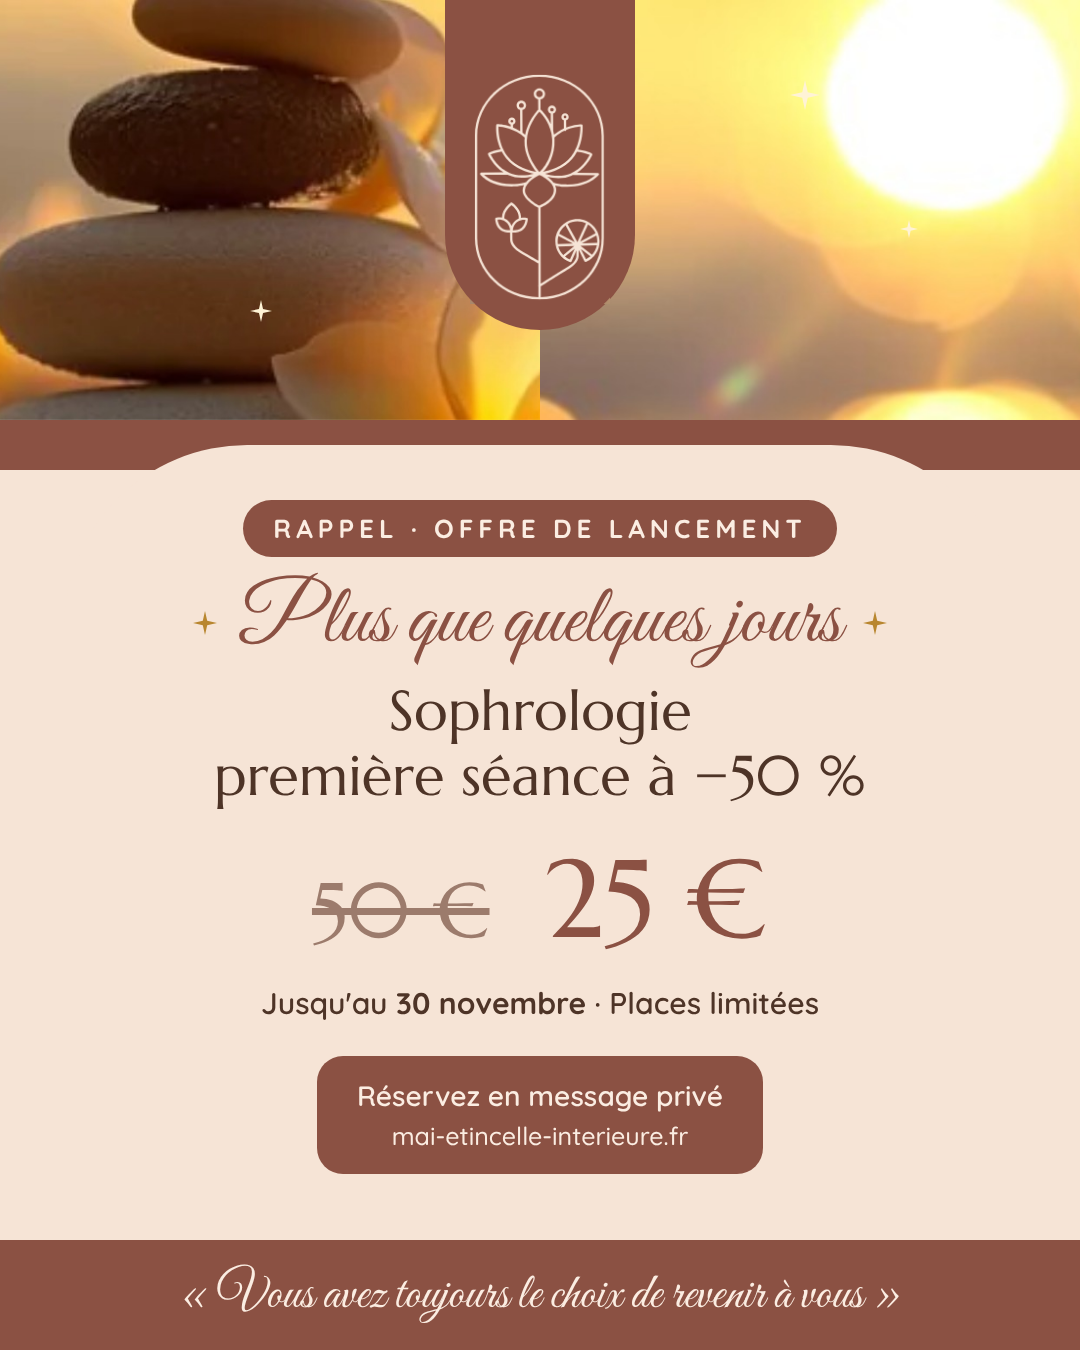
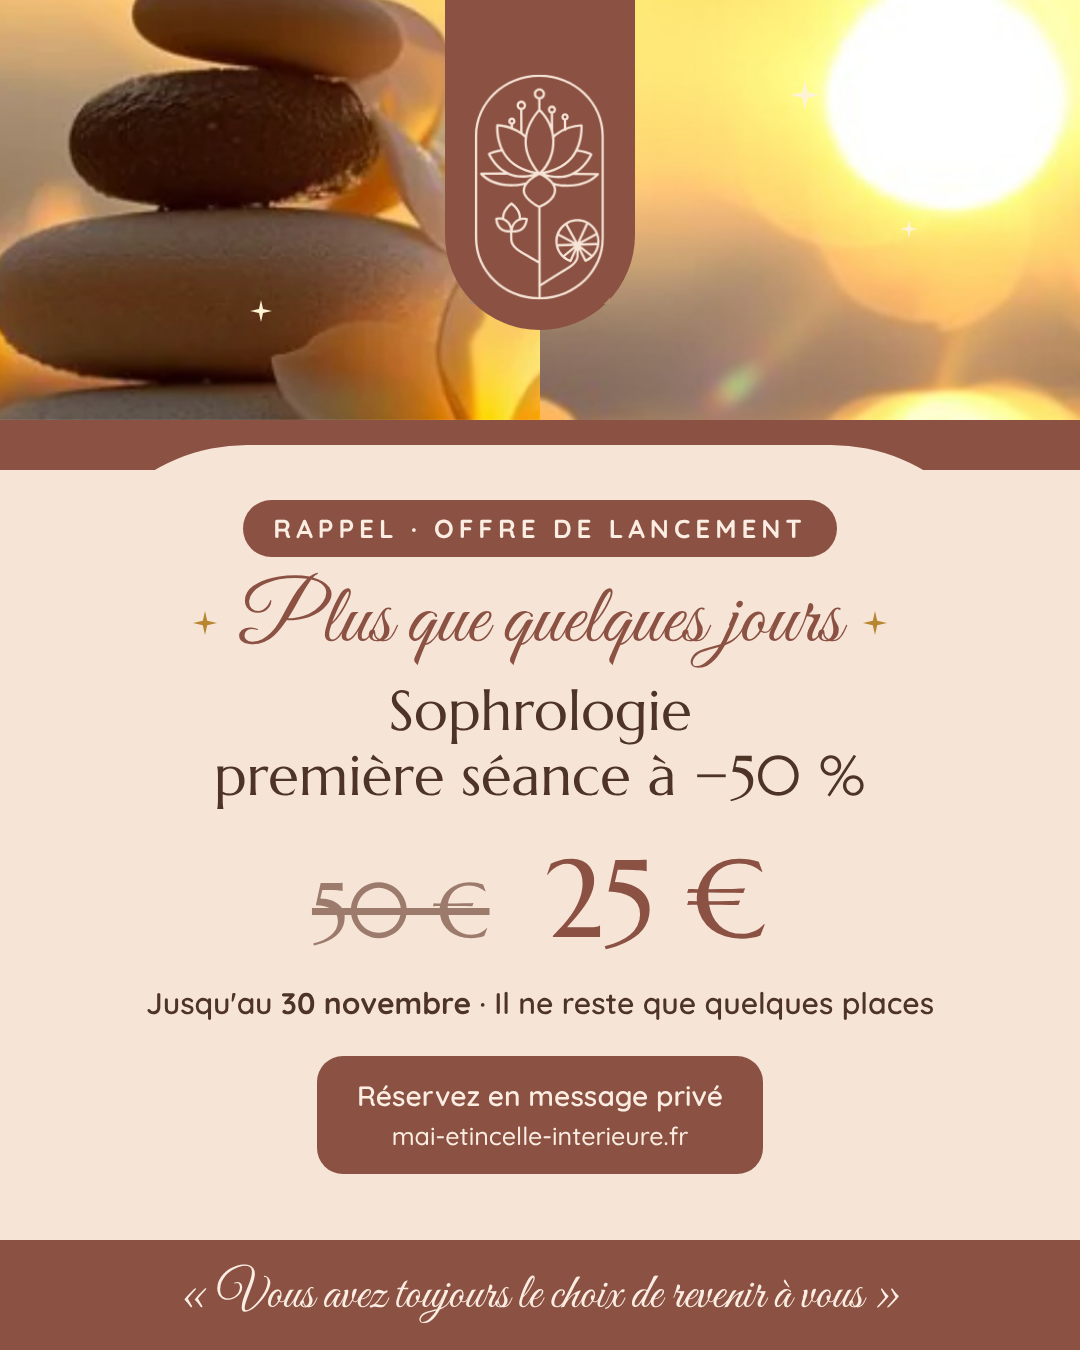
Rappel : il ne reste que quelques places
Claude-Session: https://claude.ai/code/session_018FK42WiZ4TzvXK9RPu7Yoq

Changed region(s): [[0.1528, 0.7156, 0.7639, 0.7778], [0.7944, 0.7156, 0.8556, 0.7467]]

diff --git a/images/mail-rappel.html b/images/mail-rappel.html
@@ -19,7 +19,7 @@
 <div style="font-size:14px;letter-spacing:4px;font-weight:bold">OFFRE DE LANCEMENT</div>
 <div style="font-family:Georgia,serif;font-size:28px;margin:8px 0">Première séance à −50 %</div>
 <div style="font-family:Georgia,serif"><span style="font-size:24px;text-decoration:line-through;opacity:.7">50 €</span>&nbsp;&nbsp;<span style="font-size:44px;font-weight:bold">25 €</span></div>
-<div style="font-size:16px;margin-top:8px">Pour toute réservation <b>avant le 30 novembre</b> · Places limitées</div>
+<div style="font-size:16px;margin-top:8px">Pour toute réservation <b>avant le 30 novembre</b> · Il ne reste que quelques places</div>
 </td></tr></table>
 </td></tr>
 <tr><td align="center" style="padding:26px 6% 6px">
